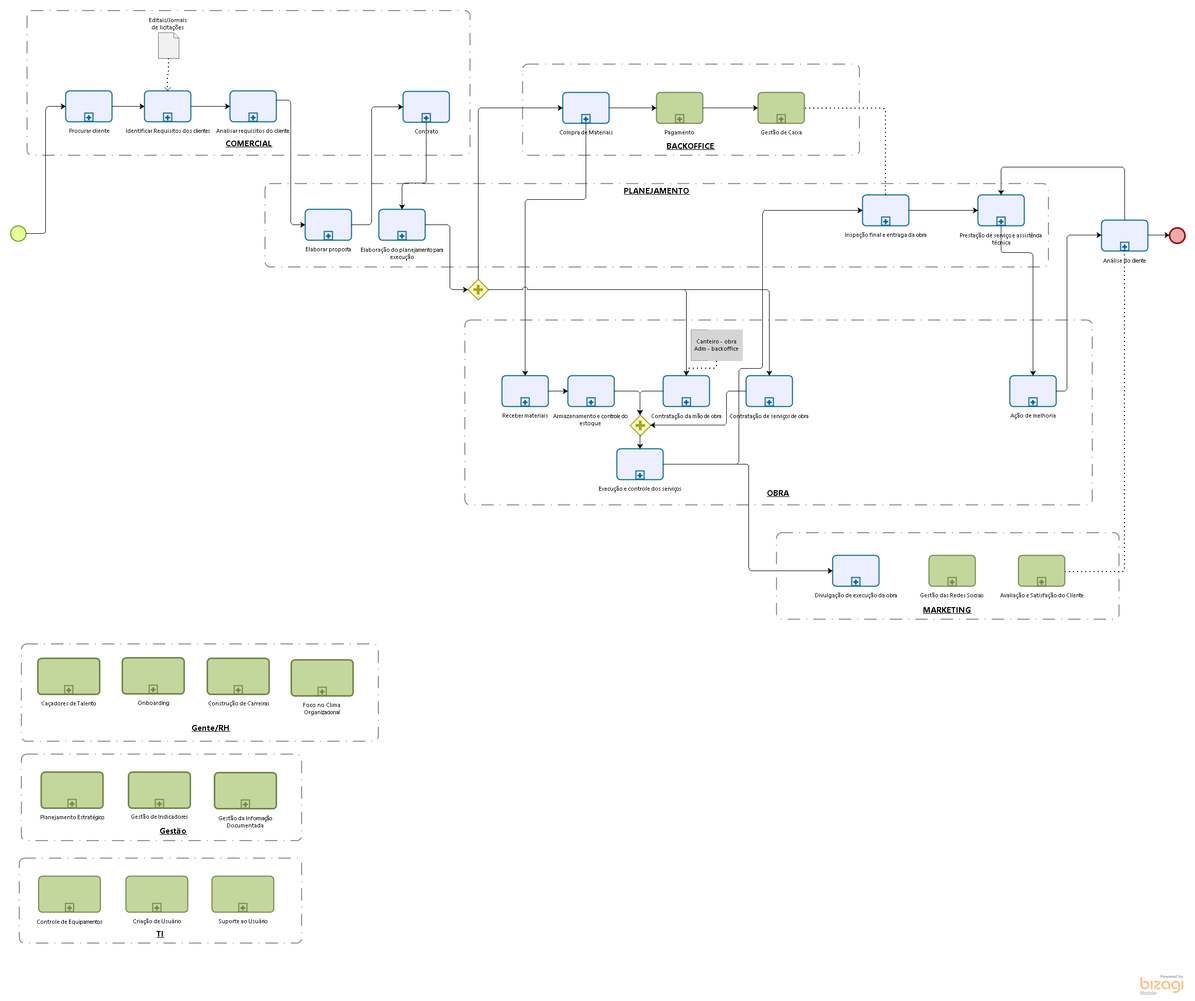
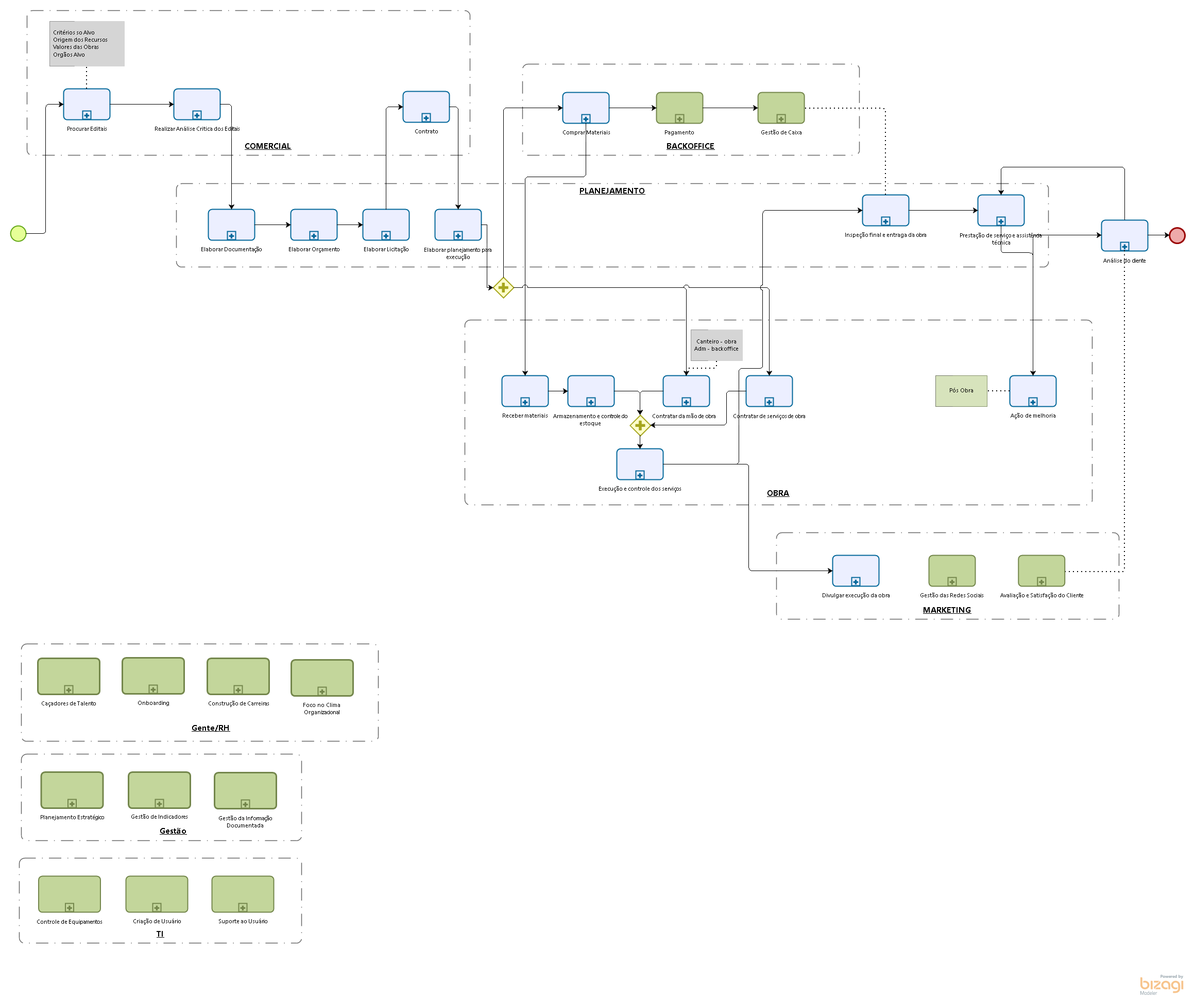
Add files via upload

diff --git a/libs/js/json/configuration.json.js b/libs/js/json/configuration.json.js
@@ -1,1 +1,1 @@
-Bizagi.AppModel = {"personalized":false,"userLogoName":"\\libs\\img\\biz-ex-logo.png","bizagiUrl":"http://www.bizagi.com","productName":"Bizagi Modeler","modelName":"Processos MK","publishDate":"04/06/2022 14:07:30","pages":[{"id":"2aa01766-2483-4bf5-9cc6-494eaa9f4866","name":"MACRO PÚBLICO","mainProcessId":"7aab92c8-d38f-452e-9b14-65f712e7676c","version":"1.0","author":"ricardo.dias","image":"files\\diagrams\\MACRO_PUBLICO.png","isSubprocessPage":false,"elements":[{"id":"7aab92c8-d38f-452e-9b14-65f712e7676c","name":"Processo principal","elementImage":"files\\bpmnElements\\Participant.png","imageBounds":{"points":[{"x":-5.0,"y":-72.0}],"radius":0.0,"height":0.0,"width":50.0,"shape":"rect"},"elementType":"Participant","properties":[],"pageElements":[{"id":"a342f97d-7b3a-42dc-9a87-8933fa2894b0","name":"Suporte ao Usuário","elementImage":"files\\bpmnElements\\SubProcess.png","imageBounds":{"points":[{"x":411.0,"y":1701.0}],"radius":0.0,"height":70.0,"width":120.0,"shape":"rect"},"elementType":"SubProcess","properties":[]},{"id":"3c4227c3-d3e4-4172-a6df-b97349a80ff6","name":"Compra de Materiais","elementImage":"files\\bpmnElements\\SubProcess.png","imageBounds":{"points":[{"x":1092.0,"y":179.0}],"radius":0.0,"height":60.0,"width":90.0,"shape":"rect"},"elementType":"SubProcess","properties":[]},{"id":"daccf854-0043-44e3-80d9-1d173d5acc42","name":"Gestão da Informação Documentada","elementImage":"files\\bpmnElements\\CallActivity.png","imageBounds":{"points":[{"x":416.0,"y":1500.0}],"radius":0.0,"height":70.0,"width":120.0,"shape":"rect"},"elementType":"CallActivity","properties":[]},{"id":"23cfeb0f-7495-4e97-bed5-978573d6212d","name":"Onboarding","elementImage":"files\\bpmnElements\\CallActivity.png","imageBounds":{"points":[{"x":237.0,"y":1277.0}],"radius":0.0,"height":70.0,"width":120.0,"shape":"rect"},"elementType":"CallActivity","properties":[]},{"id":"4e8989d6-17cd-44e8-9a2b-647b4239ecb0","name":"Gestão das Redes Sociais","elementImage":"files\\bpmnElements\\SubProcess.png","imageBounds":{"points":[{"x":1803.0,"y":1078.0}],"radius":0.0,"height":60.0,"width":90.0,"shape":"rect"},"elementType":"SubProcess","properties":[]},{"id":"1a2bcca2-b88b-4447-8ee0-e3896234a9a6","name":"Inspeção final e entraga da obra","elementImage":"files\\bpmnElements\\SubProcess.png","imageBounds":{"points":[{"x":1674.0,"y":378.0}],"radius":0.0,"height":60.0,"width":90.0,"shape":"rect"},"elementType":"SubProcess","properties":[]},{"id":"58e5f193-b6fb-48cf-af19-e793d307d36d","name":"Gestão de Caixa","elementImage":"files\\bpmnElements\\SubProcess.png","imageBounds":{"points":[{"x":1471.11121,"y":179.0}],"radius":0.0,"height":60.0,"width":90.0,"shape":"rect"},"elementType":"SubProcess","properties":[]},{"id":"121e57a7-b3f8-47d7-88da-1bfc58840245","name":"Armazenamento e controle do estoque","elementImage":"files\\bpmnElements\\SubProcess.png","imageBounds":{"points":[{"x":1102.0,"y":729.0}],"radius":0.0,"height":60.0,"width":90.0,"shape":"rect"},"elementType":"SubProcess","properties":[]},{"id":"fd87362f-3ec1-41bd-ad44-008bf3bf98c6","name":"Divulgação de execução da obra","elementImage":"files\\bpmnElements\\SubProcess.png","imageBounds":{"points":[{"x":1616.0,"y":1078.0}],"radius":0.0,"height":60.0,"width":90.0,"shape":"rect"},"elementType":"SubProcess","properties":[]},{"id":"c0527423-c169-4b1d-a0cb-c70158fa7370","name":"Análise do cliente ","elementImage":"files\\bpmnElements\\SubProcess.png","imageBounds":{"points":[{"x":2138.0,"y":426.888916}],"radius":0.0,"height":60.0,"width":90.0,"shape":"rect"},"elementType":"SubProcess","properties":[]},{"id":"53fdd723-2268-4069-b5ff-2af9fe69d67d","name":"Planejamento Estratégico","elementImage":"files\\bpmnElements\\CallActivity.png","imageBounds":{"points":[{"x":79.5,"y":1499.0}],"radius":0.0,"height":70.0,"width":120.0,"shape":"rect"},"elementType":"CallActivity","properties":[]},{"id":"7ae5ea42-0efb-4be6-94c8-d6a5fe77590c","name":"Execução e controle dos serviços","elementImage":"files\\bpmnElements\\SubProcess.png","imageBounds":{"points":[{"x":1197.0,"y":871.0}],"radius":0.0,"height":60.0,"width":90.0,"shape":"rect"},"elementType":"SubProcess","properties":[]},{"id":"b01a6e3a-ce09-41a8-b791-94b8a8d6d5f3","name":"Identificar Requisitos dos clientes","elementImage":"files\\bpmnElements\\SubProcess.png","imageBounds":{"points":[{"x":280.0,"y":176.0}],"radius":0.0,"height":60.0,"width":90.0,"shape":"rect"},"elementType":"SubProcess","properties":[]},{"id":"c8587a21-b724-4849-a612-99698019901c","name":"Construção de Carreiras","elementImage":"files\\bpmnElements\\CallActivity.png","imageBounds":{"points":[{"x":402.0,"y":1278.0}],"radius":0.0,"height":70.0,"width":120.0,"shape":"rect"},"elementType":"CallActivity","properties":[]},{"id":"1b2255b4-cb31-4b5a-998d-3a520acac259","name":"Analisar requisitos do cliente","elementImage":"files\\bpmnElements\\SubProcess.png","imageBounds":{"points":[{"x":446.0,"y":176.0}],"radius":0.0,"height":60.0,"width":90.0,"shape":"rect"},"elementType":"SubProcess","properties":[]},{"id":"0a53ca69-c957-412b-81af-730077834c3f","name":"Prestação de serviço e assistência técnica","elementImage":"files\\bpmnElements\\SubProcess.png","imageBounds":{"points":[{"x":1898.0,"y":378.0}],"radius":0.0,"height":60.0,"width":90.0,"shape":"rect"},"elementType":"SubProcess","properties":[]},{"id":"6ee625ab-8dd6-47c2-90d7-e672abb8f5fb","name":"Caçadores de Talento","elementImage":"files\\bpmnElements\\CallActivity.png","imageBounds":{"points":[{"x":73.0,"y":1278.0}],"radius":0.0,"height":70.0,"width":120.0,"shape":"rect"},"elementType":"CallActivity","properties":[]},{"id":"14da4f3b-7404-401a-b2bc-e7e9534182c3","name":"Controle de Equipamentos ","elementImage":"files\\bpmnElements\\SubProcess.png","imageBounds":{"points":[{"x":74.5,"y":1701.0}],"radius":0.0,"height":70.0,"width":120.0,"shape":"rect"},"elementType":"SubProcess","properties":[]},{"id":"37672f6d-94d7-44c7-af8c-8bcd1172827e","name":"Avaliação e Satisfação do Cliente","elementImage":"files\\bpmnElements\\SubProcess.png","imageBounds":{"points":[{"x":1976.66675,"y":1078.0}],"radius":0.0,"height":60.0,"width":90.0,"shape":"rect"},"elementType":"SubProcess","properties":[]},{"id":"a2160536-4871-40d2-9341-28507206632d","name":"Foco no Clima Organizacional","elementImage":"files\\bpmnElements\\CallActivity.png","imageBounds":{"points":[{"x":565.0,"y":1281.0}],"radius":0.0,"height":70.0,"width":120.0,"shape":"rect"},"elementType":"CallActivity","properties":[]},{"id":"06a9a43f-01b6-4970-a3e1-9eeb587aa98d","name":"Gateway","elementImage":"files\\bpmnElements\\ParallelGateway.png","imageBounds":{"points":[{"x":1222.77783,"y":805.777832}],"radius":0.0,"height":40.0,"width":40.0,"shape":"poly"},"elementType":"ParallelGateway","properties":[],"pageElements":[]},{"id":"cb7c0265-ce66-482e-a1ec-25286693ef7a","name":"Procurar cliente","elementImage":"files\\bpmnElements\\SubProcess.png","imageBounds":{"points":[{"x":127.0,"y":176.0}],"radius":0.0,"height":60.0,"width":90.0,"shape":"rect"},"elementType":"SubProcess","properties":[]},{"id":"1dad1e02-54e0-43ae-8fd5-d2d10bd92238","name":"Event","elementImage":"files\\bpmnElements\\NoneEnd.png","imageBounds":{"points":[{"x":2270.0,"y":441.888916}],"radius":15.0,"height":30.0,"width":30.0,"shape":"circle"},"elementType":"NoneEnd"},{"id":"ca4217a4-1cfb-42ae-bcee-9603e773e407","name":"Elaborar proposta","elementImage":"files\\bpmnElements\\SubProcess.png","imageBounds":{"points":[{"x":592.0,"y":406.0}],"radius":0.0,"height":60.0,"width":90.0,"shape":"rect"},"elementType":"SubProcess","properties":[]},{"id":"88a98e52-edee-4766-a98f-159c81b53b11","name":"Ação de melhoria","elementImage":"files\\bpmnElements\\SubProcess.png","imageBounds":{"points":[{"x":1960.0,"y":729.0}],"radius":0.0,"height":60.0,"width":90.0,"shape":"rect"},"elementType":"SubProcess","properties":[]},{"id":"5f1c2b59-33eb-44a5-b3b4-495d7a2e0898","name":"Contrato","elementImage":"files\\bpmnElements\\SubProcess.png","imageBounds":{"points":[{"x":782.0,"y":177.0}],"radius":0.0,"height":60.0,"width":90.0,"shape":"rect"},"elementType":"SubProcess","properties":[]},{"id":"d31b7023-c800-44d3-8320-5be98eb1ceb3","name":"Contratação da mão de obra ","elementImage":"files\\bpmnElements\\SubProcess.png","imageBounds":{"points":[{"x":1287.0,"y":729.0}],"radius":0.0,"height":60.0,"width":90.0,"shape":"rect"},"elementType":"SubProcess","properties":[]},{"id":"c41f8b78-5fb1-4313-80c6-d4fb2ebcdc4d","name":"Event","elementImage":"files\\bpmnElements\\NoneStart.png","imageBounds":{"points":[{"x":20.0,"y":438.0}],"radius":15.0,"height":30.0,"width":30.0,"shape":"circle"},"elementType":"NoneStart"},{"id":"56f5ab8f-daf4-45fb-8957-6522d06d053a","name":"Gestão de Indicadores","elementImage":"files\\bpmnElements\\CallActivity.png","imageBounds":{"points":[{"x":249.0,"y":1499.0}],"radius":0.0,"height":70.0,"width":120.0,"shape":"rect"},"elementType":"CallActivity","properties":[]},{"id":"6c3370b5-6023-4d77-92af-8bde97bf68e0","name":"Elaboração do planejamento para execução ","elementImage":"files\\bpmnElements\\SubProcess.png","imageBounds":{"points":[{"x":735.0,"y":406.0}],"radius":0.0,"height":60.0,"width":90.0,"shape":"rect"},"elementType":"SubProcess","properties":[]},{"id":"beb435e9-1483-460d-9a16-dc3cbba626df","name":"Criação de Usuário","elementImage":"files\\bpmnElements\\SubProcess.png","imageBounds":{"points":[{"x":244.0,"y":1701.0}],"radius":0.0,"height":70.0,"width":120.0,"shape":"rect"},"elementType":"SubProcess","properties":[]},{"id":"cad4079f-0db8-4119-87f0-387d12c20988","name":"Pagamento","elementImage":"files\\bpmnElements\\SubProcess.png","imageBounds":{"points":[{"x":1274.0,"y":179.0}],"radius":0.0,"height":60.0,"width":90.0,"shape":"rect"},"elementType":"SubProcess","properties":[]},{"id":"f817118d-0534-4514-9943-41489e00f43a","name":"Receber materiais","elementImage":"files\\bpmnElements\\SubProcess.png","imageBounds":{"points":[{"x":974.0,"y":729.0}],"radius":0.0,"height":60.0,"width":90.0,"shape":"rect"},"elementType":"SubProcess","properties":[]},{"id":"a39a5c54-1a81-46f6-a78b-c2be47d586d4","name":"Contratação de serviços de obra ","elementImage":"files\\bpmnElements\\SubProcess.png","imageBounds":{"points":[{"x":1448.0,"y":729.0}],"radius":0.0,"height":60.0,"width":90.0,"shape":"rect"},"elementType":"SubProcess","properties":[]},{"id":"ba5c4e34-5f3f-4697-83d8-7735c58782f2","name":"Gateway","elementImage":"files\\bpmnElements\\ParallelGateway.png","imageBounds":{"points":[{"x":908.0,"y":542.0}],"radius":0.0,"height":40.0,"width":40.0,"shape":"poly"},"elementType":"ParallelGateway","properties":[],"pageElements":[]},{"id":"e4da18d6-eaeb-4d81-88e8-6a47c6bad52f","name":"Editais/Jornais de licitações","elementImage":"files\\bpmnElements\\DataObject.png","imageBounds":{"points":[{"x":307.0,"y":63.0}],"radius":0.0,"height":50.0,"width":40.0,"shape":"rect"},"elementType":"DataObject","properties":[{"id":"DataObjectState","name":"Estado","type":"text"}]}]}]}],"texts":{"tableOfContents":"Índice","pageNumber":"Página","pageNumberLabelOf":"de","version":"Versão","author":"Autor","description":"Descrição","mainPool":"Processo principal","mainPoolDescription":"Processo principal Descrição","processDiagrams":"Processar os Diagramas","processElements":"Elementos do processo","elements":"Elementos do processo","defaultElementName":"Elemento","performers":"Executantes","connectors":"Conectores","connector":"Conector","home":"Principal","search":"Pesquisar","goToParentProcess":"<< Ir para Matriz","visitBizagi":"Visite bizagi.com","contains":"Contém {0} subprocessos","showAll":"Show all","fullScreen":"Tela inteira","zoomIn":"Ampliar","zoomOut":"Reduzir","close":"Fechar","menu":"Menu: ","errorPage":"Erro ao visualizar a página","process":"Proceso","subProcess":"Subprocessos publicados","contain":"Contém","checkAttributes":"Ver atributos","checkOverview":"Ver resumo","unavailableResource":"O recurso não está disponível","localResource":"O recurso pode ser acessado localmente","performer":"Executor","linktoimage":"Link para a  imagem","presentationAction":"Ações de apresentação","searchGlobal":"Busca todos","searchLocal":"Busca neste processo","searchResults":"Nenhum resultado encontrado","titlePage":"Start","emptyElement":"Este elemento ainda não foi documentado","unsupported":"Seu navegador não suporta conteúdo exibido por esta página. <br> Recomendamos que você atualizar o seu navegador.","details":"Detalhes","expand":"Expandir","mainPoolProperties":"Propriedades do Processo principal","cannotVisualize":"The page cannot be displayed","resourceNotFound":"The requested resource was not found:","applyTheme":"Applying new theme"},"searchMap":[{"containerId":"2aa01766-2483-4bf5-9cc6-494eaa9f4866","containerName":"MACRO PÚBLICO","isSubprocess":false,"elements":[{"id":"a342f97d-7b3a-42dc-9a87-8933fa2894b0","value":"Suporte ao Usuário"},{"id":"3c4227c3-d3e4-4172-a6df-b97349a80ff6","value":"Compra de Materiais"},{"id":"daccf854-0043-44e3-80d9-1d173d5acc42","value":"Gestão da Informação Documentada"},{"id":"23cfeb0f-7495-4e97-bed5-978573d6212d","value":"Onboarding"},{"id":"4e8989d6-17cd-44e8-9a2b-647b4239ecb0","value":"Gestão das Redes Sociais"},{"id":"1a2bcca2-b88b-4447-8ee0-e3896234a9a6","value":"Inspeção final e entraga da obra"},{"id":"58e5f193-b6fb-48cf-af19-e793d307d36d","value":"Gestão de Caixa"},{"id":"121e57a7-b3f8-47d7-88da-1bfc58840245","value":"Armazenamento e controle do estoque"},{"id":"fd87362f-3ec1-41bd-ad44-008bf3bf98c6","value":"Divulgação de execução da obra"},{"id":"c0527423-c169-4b1d-a0cb-c70158fa7370","value":"Análise do cliente "},{"id":"53fdd723-2268-4069-b5ff-2af9fe69d67d","value":"Planejamento Estratégico"},{"id":"7ae5ea42-0efb-4be6-94c8-d6a5fe77590c","value":"Execução e controle dos serviços"},{"id":"b01a6e3a-ce09-41a8-b791-94b8a8d6d5f3","value":"Identificar Requisitos dos clientes"},{"id":"c8587a21-b724-4849-a612-99698019901c","value":"Construção de Carreiras"},{"id":"1b2255b4-cb31-4b5a-998d-3a520acac259","value":"Analisar requisitos do cliente"},{"id":"0a53ca69-c957-412b-81af-730077834c3f","value":"Prestação de serviço e assistência técnica"},{"id":"6ee625ab-8dd6-47c2-90d7-e672abb8f5fb","value":"Caçadores de Talento"},{"id":"14da4f3b-7404-401a-b2bc-e7e9534182c3","value":"Controle de Equipamentos "},{"id":"37672f6d-94d7-44c7-af8c-8bcd1172827e","value":"Avaliação e Satisfação do Cliente"},{"id":"a2160536-4871-40d2-9341-28507206632d","value":"Foco no Clima Organizacional"},{"id":"06a9a43f-01b6-4970-a3e1-9eeb587aa98d","value":""},{"id":"cb7c0265-ce66-482e-a1ec-25286693ef7a","value":"Procurar cliente"},{"id":"1dad1e02-54e0-43ae-8fd5-d2d10bd92238","value":""},{"id":"ca4217a4-1cfb-42ae-bcee-9603e773e407","value":"Elaborar proposta"},{"id":"88a98e52-edee-4766-a98f-159c81b53b11","value":"Ação de melhoria"},{"id":"5f1c2b59-33eb-44a5-b3b4-495d7a2e0898","value":"Contrato"},{"id":"d31b7023-c800-44d3-8320-5be98eb1ceb3","value":"Contratação da mão de obra "},{"id":"c41f8b78-5fb1-4313-80c6-d4fb2ebcdc4d","value":""},{"id":"56f5ab8f-daf4-45fb-8957-6522d06d053a","value":"Gestão de Indicadores"},{"id":"6c3370b5-6023-4d77-92af-8bde97bf68e0","value":"Elaboração do planejamento para execução "},{"id":"beb435e9-1483-460d-9a16-dc3cbba626df","value":"Criação de Usuário"},{"id":"cad4079f-0db8-4119-87f0-387d12c20988","value":"Pagamento"},{"id":"f817118d-0534-4514-9943-41489e00f43a","value":"Receber materiais"},{"id":"a39a5c54-1a81-46f6-a78b-c2be47d586d4","value":"Contratação de serviços de obra "},{"id":"ba5c4e34-5f3f-4697-83d8-7735c58782f2","value":""},{"id":"e4da18d6-eaeb-4d81-88e8-6a47c6bad52f","value":"Editais/Jornais de licitações"},{"id":"29c6b9ff-be74-449d-abf2-a97f9c04abed"},{"id":"bbe19fb5-e15c-4c56-aa4b-13320385f94e"},{"id":"c7be7cd0-d276-40dc-aac5-15e922d9c383"},{"id":"c1f2a4ed-14df-4954-bcfb-94bdda240b9c"},{"id":"1e3af276-f667-41fa-a036-f86cae139d44"}]},{"containerId":"a342f97d-7b3a-42dc-9a87-8933fa2894b0","containerName":"Suporte ao Usuário","isSubprocess":true,"elements":[]},{"containerId":"3c4227c3-d3e4-4172-a6df-b97349a80ff6","containerName":"Compra de Materiais","isSubprocess":true,"elements":[]},{"containerId":"4e8989d6-17cd-44e8-9a2b-647b4239ecb0","containerName":"Gestão das Redes Sociais","isSubprocess":true,"elements":[]},{"containerId":"1a2bcca2-b88b-4447-8ee0-e3896234a9a6","containerName":"Inspeção final e entraga da obra","isSubprocess":true,"elements":[]},{"containerId":"58e5f193-b6fb-48cf-af19-e793d307d36d","containerName":"Gestão de Caixa","isSubprocess":true,"elements":[]},{"containerId":"121e57a7-b3f8-47d7-88da-1bfc58840245","containerName":"Armazenamento e controle do estoque","isSubprocess":true,"elements":[]},{"containerId":"fd87362f-3ec1-41bd-ad44-008bf3bf98c6","containerName":"Divulgação de execução da obra","isSubprocess":true,"elements":[]},{"containerId":"c0527423-c169-4b1d-a0cb-c70158fa7370","containerName":"Análise do cliente ","isSubprocess":true,"elements":[]},{"containerId":"7ae5ea42-0efb-4be6-94c8-d6a5fe77590c","containerName":"Execução e controle dos serviços","isSubprocess":true,"elements":[]},{"containerId":"b01a6e3a-ce09-41a8-b791-94b8a8d6d5f3","containerName":"Identificar Requisitos dos clientes","isSubprocess":true,"elements":[]},{"containerId":"1b2255b4-cb31-4b5a-998d-3a520acac259","containerName":"Analisar requisitos do cliente","isSubprocess":true,"elements":[]},{"containerId":"0a53ca69-c957-412b-81af-730077834c3f","containerName":"Prestação de serviço e assistência técnica","isSubprocess":true,"elements":[]},{"containerId":"14da4f3b-7404-401a-b2bc-e7e9534182c3","containerName":"Controle de Equipamentos ","isSubprocess":true,"elements":[]},{"containerId":"37672f6d-94d7-44c7-af8c-8bcd1172827e","containerName":"Avaliação e Satisfação do Cliente","isSubprocess":true,"elements":[]},{"containerId":"cb7c0265-ce66-482e-a1ec-25286693ef7a","containerName":"Procurar cliente","isSubprocess":true,"elements":[]},{"containerId":"ca4217a4-1cfb-42ae-bcee-9603e773e407","containerName":"Elaborar proposta","isSubprocess":true,"elements":[]},{"containerId":"88a98e52-edee-4766-a98f-159c81b53b11","containerName":"Ação de melhoria","isSubprocess":true,"elements":[]},{"containerId":"5f1c2b59-33eb-44a5-b3b4-495d7a2e0898","containerName":"Contrato","isSubprocess":true,"elements":[]},{"containerId":"d31b7023-c800-44d3-8320-5be98eb1ceb3","containerName":"Contratação da mão de obra ","isSubprocess":true,"elements":[]},{"containerId":"6c3370b5-6023-4d77-92af-8bde97bf68e0","containerName":"Elaboração do planejamento para execução ","isSubprocess":true,"elements":[]},{"containerId":"beb435e9-1483-460d-9a16-dc3cbba626df","containerName":"Criação de Usuário","isSubprocess":true,"elements":[]},{"containerId":"cad4079f-0db8-4119-87f0-387d12c20988","containerName":"Pagamento","isSubprocess":true,"elements":[]},{"containerId":"f817118d-0534-4514-9943-41489e00f43a","containerName":"Receber materiais","isSubprocess":true,"elements":[]},{"containerId":"a39a5c54-1a81-46f6-a78b-c2be47d586d4","containerName":"Contratação de serviços de obra ","isSubprocess":true,"elements":[]}]}
+Bizagi.AppModel = {"personalized":false,"userLogoName":"\\libs\\img\\biz-ex-logo.png","bizagiUrl":"http://www.bizagi.com","productName":"Bizagi Modeler","modelName":"Processos MK e R1","publishDate":"08/06/2022 14:01:08","pages":[{"id":"2aa01766-2483-4bf5-9cc6-494eaa9f4866","name":"MACRO PÚBLICO","mainProcessId":"7aab92c8-d38f-452e-9b14-65f712e7676c","version":"1.0","author":"ricardo.dias","image":"files\\diagrams\\MACRO_PUBLICO.png","isSubprocessPage":false,"elements":[{"id":"7aab92c8-d38f-452e-9b14-65f712e7676c","name":"Processo principal","elementImage":"files\\bpmnElements\\Participant.png","imageBounds":{"points":[{"x":-5.0,"y":-72.0}],"radius":0.0,"height":350.0,"width":50.0,"shape":"rect"},"elementType":"Participant","properties":[],"pageElements":[{"id":"a342f97d-7b3a-42dc-9a87-8933fa2894b0","name":"Suporte ao Usuário","elementImage":"files\\bpmnElements\\SubProcess.png","imageBounds":{"points":[{"x":411.0,"y":1701.0}],"radius":0.0,"height":70.0,"width":120.0,"shape":"rect"},"elementType":"SubProcess","properties":[]},{"id":"3c4227c3-d3e4-4172-a6df-b97349a80ff6","name":"Comprar Materiais","elementImage":"files\\bpmnElements\\SubProcess.png","imageBounds":{"points":[{"x":1092.0,"y":179.0}],"radius":0.0,"height":60.0,"width":90.0,"shape":"rect"},"elementType":"SubProcess","properties":[]},{"id":"daccf854-0043-44e3-80d9-1d173d5acc42","name":"Gestão da Informação Documentada","elementImage":"files\\bpmnElements\\CallActivity.png","imageBounds":{"points":[{"x":416.0,"y":1500.0}],"radius":0.0,"height":70.0,"width":120.0,"shape":"rect"},"elementType":"CallActivity","properties":[]},{"id":"23cfeb0f-7495-4e97-bed5-978573d6212d","name":"Onboarding","elementImage":"files\\bpmnElements\\CallActivity.png","imageBounds":{"points":[{"x":237.0,"y":1277.0}],"radius":0.0,"height":70.0,"width":120.0,"shape":"rect"},"elementType":"CallActivity","properties":[]},{"id":"4e8989d6-17cd-44e8-9a2b-647b4239ecb0","name":"Gestão das Redes Sociais","elementImage":"files\\bpmnElements\\SubProcess.png","imageBounds":{"points":[{"x":1803.0,"y":1078.0}],"radius":0.0,"height":60.0,"width":90.0,"shape":"rect"},"elementType":"SubProcess","properties":[]},{"id":"1a2bcca2-b88b-4447-8ee0-e3896234a9a6","name":"Inspeção final e entraga da obra","elementImage":"files\\bpmnElements\\SubProcess.png","imageBounds":{"points":[{"x":1674.0,"y":378.0}],"radius":0.0,"height":60.0,"width":90.0,"shape":"rect"},"elementType":"SubProcess","properties":[]},{"id":"58e5f193-b6fb-48cf-af19-e793d307d36d","name":"Gestão de Caixa","elementImage":"files\\bpmnElements\\SubProcess.png","imageBounds":{"points":[{"x":1471.11121,"y":179.0}],"radius":0.0,"height":60.0,"width":90.0,"shape":"rect"},"elementType":"SubProcess","properties":[]},{"id":"121e57a7-b3f8-47d7-88da-1bfc58840245","name":"Armazenamento e controle do estoque","elementImage":"files\\bpmnElements\\SubProcess.png","imageBounds":{"points":[{"x":1102.0,"y":729.0}],"radius":0.0,"height":60.0,"width":90.0,"shape":"rect"},"elementType":"SubProcess","properties":[]},{"id":"fd87362f-3ec1-41bd-ad44-008bf3bf98c6","name":"Divulgar execução da obra","elementImage":"files\\bpmnElements\\SubProcess.png","imageBounds":{"points":[{"x":1616.0,"y":1078.0}],"radius":0.0,"height":60.0,"width":90.0,"shape":"rect"},"elementType":"SubProcess","properties":[]},{"id":"c0527423-c169-4b1d-a0cb-c70158fa7370","name":"Análise do cliente ","elementImage":"files\\bpmnElements\\SubProcess.png","imageBounds":{"points":[{"x":2138.0,"y":426.888916}],"radius":0.0,"height":60.0,"width":90.0,"shape":"rect"},"elementType":"SubProcess","properties":[]},{"id":"53fdd723-2268-4069-b5ff-2af9fe69d67d","name":"Planejamento Estratégico","elementImage":"files\\bpmnElements\\CallActivity.png","imageBounds":{"points":[{"x":79.5,"y":1499.0}],"radius":0.0,"height":70.0,"width":120.0,"shape":"rect"},"elementType":"CallActivity","properties":[]},{"id":"7ae5ea42-0efb-4be6-94c8-d6a5fe77590c","name":"Execução e controle dos serviços","elementImage":"files\\bpmnElements\\SubProcess.png","imageBounds":{"points":[{"x":1197.0,"y":871.0}],"radius":0.0,"height":60.0,"width":90.0,"shape":"rect"},"elementType":"SubProcess","properties":[]},{"id":"c8587a21-b724-4849-a612-99698019901c","name":"Construção de Carreiras","elementImage":"files\\bpmnElements\\CallActivity.png","imageBounds":{"points":[{"x":402.0,"y":1278.0}],"radius":0.0,"height":70.0,"width":120.0,"shape":"rect"},"elementType":"CallActivity","properties":[]},{"id":"0a53ca69-c957-412b-81af-730077834c3f","name":"Prestação de serviço e assistência técnica","elementImage":"files\\bpmnElements\\SubProcess.png","imageBounds":{"points":[{"x":1898.0,"y":378.0}],"radius":0.0,"height":60.0,"width":90.0,"shape":"rect"},"elementType":"SubProcess","properties":[]},{"id":"6ee625ab-8dd6-47c2-90d7-e672abb8f5fb","name":"Caçadores de Talento","elementImage":"files\\bpmnElements\\CallActivity.png","imageBounds":{"points":[{"x":73.0,"y":1278.0}],"radius":0.0,"height":70.0,"width":120.0,"shape":"rect"},"elementType":"CallActivity","properties":[]},{"id":"14da4f3b-7404-401a-b2bc-e7e9534182c3","name":"Controle de Equipamentos ","elementImage":"files\\bpmnElements\\SubProcess.png","imageBounds":{"points":[{"x":74.5,"y":1701.0}],"radius":0.0,"height":70.0,"width":120.0,"shape":"rect"},"elementType":"SubProcess","properties":[]},{"id":"37672f6d-94d7-44c7-af8c-8bcd1172827e","name":"Avaliação e Satisfação do Cliente","elementImage":"files\\bpmnElements\\SubProcess.png","imageBounds":{"points":[{"x":1976.66675,"y":1078.0}],"radius":0.0,"height":60.0,"width":90.0,"shape":"rect"},"elementType":"SubProcess","properties":[]},{"id":"a2160536-4871-40d2-9341-28507206632d","name":"Foco no Clima Organizacional","elementImage":"files\\bpmnElements\\CallActivity.png","imageBounds":{"points":[{"x":565.0,"y":1281.0}],"radius":0.0,"height":70.0,"width":120.0,"shape":"rect"},"elementType":"CallActivity","properties":[]},{"id":"06a9a43f-01b6-4970-a3e1-9eeb587aa98d","name":"Gateway","elementImage":"files\\bpmnElements\\ParallelGateway.png","imageBounds":{"points":[{"x":1222.77783,"y":805.777832}],"radius":0.0,"height":40.0,"width":40.0,"shape":"poly"},"elementType":"ParallelGateway","properties":[],"pageElements":[]},{"id":"cb7c0265-ce66-482e-a1ec-25286693ef7a","name":"Procurar Editais","elementImage":"files\\bpmnElements\\SubProcess.png","imageBounds":{"points":[{"x":123.0,"y":172.0}],"radius":0.0,"height":60.0,"width":90.0,"shape":"rect"},"elementType":"SubProcess","properties":[]},{"id":"1dad1e02-54e0-43ae-8fd5-d2d10bd92238","name":"Event","elementImage":"files\\bpmnElements\\NoneEnd.png","imageBounds":{"points":[{"x":2270.0,"y":441.888916}],"radius":15.0,"height":30.0,"width":30.0,"shape":"circle"},"elementType":"NoneEnd"},{"id":"ca4217a4-1cfb-42ae-bcee-9603e773e407","name":"Elaborar Documentação","elementImage":"files\\bpmnElements\\SubProcess.png","imageBounds":{"points":[{"x":404.0,"y":406.0}],"radius":0.0,"height":60.0,"width":90.0,"shape":"rect"},"elementType":"SubProcess","properties":[]},{"id":"88a98e52-edee-4766-a98f-159c81b53b11","name":"Ação de melhoria","elementImage":"files\\bpmnElements\\SubProcess.png","imageBounds":{"points":[{"x":1960.0,"y":729.0}],"radius":0.0,"height":60.0,"width":90.0,"shape":"rect"},"elementType":"SubProcess","properties":[]},{"id":"5f1c2b59-33eb-44a5-b3b4-495d7a2e0898","name":"Contrato","elementImage":"files\\bpmnElements\\SubProcess.png","imageBounds":{"points":[{"x":782.0,"y":177.0}],"radius":0.0,"height":60.0,"width":90.0,"shape":"rect"},"elementType":"SubProcess","properties":[]},{"id":"d31b7023-c800-44d3-8320-5be98eb1ceb3","name":"Contratar da mão de obra ","elementImage":"files\\bpmnElements\\SubProcess.png","imageBounds":{"points":[{"x":1287.0,"y":729.0}],"radius":0.0,"height":60.0,"width":90.0,"shape":"rect"},"elementType":"SubProcess","properties":[]},{"id":"c41f8b78-5fb1-4313-80c6-d4fb2ebcdc4d","name":"Event","elementImage":"files\\bpmnElements\\NoneStart.png","imageBounds":{"points":[{"x":20.0,"y":438.0}],"radius":15.0,"height":30.0,"width":30.0,"shape":"circle"},"elementType":"NoneStart"},{"id":"56f5ab8f-daf4-45fb-8957-6522d06d053a","name":"Gestão de Indicadores","elementImage":"files\\bpmnElements\\CallActivity.png","imageBounds":{"points":[{"x":249.0,"y":1499.0}],"radius":0.0,"height":70.0,"width":120.0,"shape":"rect"},"elementType":"CallActivity","properties":[]},{"id":"6c3370b5-6023-4d77-92af-8bde97bf68e0","name":"Elaborar planejamento para execução ","elementImage":"files\\bpmnElements\\SubProcess.png","imageBounds":{"points":[{"x":844.0,"y":406.0}],"radius":0.0,"height":60.0,"width":90.0,"shape":"rect"},"elementType":"SubProcess","properties":[]},{"id":"beb435e9-1483-460d-9a16-dc3cbba626df","name":"Criação de Usuário","elementImage":"files\\bpmnElements\\SubProcess.png","imageBounds":{"points":[{"x":244.0,"y":1701.0}],"radius":0.0,"height":70.0,"width":120.0,"shape":"rect"},"elementType":"SubProcess","properties":[]},{"id":"cad4079f-0db8-4119-87f0-387d12c20988","name":"Pagamento","elementImage":"files\\bpmnElements\\SubProcess.png","imageBounds":{"points":[{"x":1274.0,"y":179.0}],"radius":0.0,"height":60.0,"width":90.0,"shape":"rect"},"elementType":"SubProcess","properties":[]},{"id":"f817118d-0534-4514-9943-41489e00f43a","name":"Receber materiais","elementImage":"files\\bpmnElements\\SubProcess.png","imageBounds":{"points":[{"x":974.0,"y":729.0}],"radius":0.0,"height":60.0,"width":90.0,"shape":"rect"},"elementType":"SubProcess","properties":[]},{"id":"a39a5c54-1a81-46f6-a78b-c2be47d586d4","name":"Contratar de serviços de obra ","elementImage":"files\\bpmnElements\\SubProcess.png","imageBounds":{"points":[{"x":1448.0,"y":729.0}],"radius":0.0,"height":60.0,"width":90.0,"shape":"rect"},"elementType":"SubProcess","properties":[]},{"id":"ba5c4e34-5f3f-4697-83d8-7735c58782f2","name":"Gateway","elementImage":"files\\bpmnElements\\ParallelGateway.png","imageBounds":{"points":[{"x":957.0,"y":538.0}],"radius":0.0,"height":40.0,"width":40.0,"shape":"poly"},"elementType":"ParallelGateway","properties":[],"pageElements":[]},{"id":"ad3d0d49-937b-4017-b0bf-2d861de71572","name":"Realizar Análise Critica dos Editais","elementImage":"files\\bpmnElements\\SubProcess.png","imageBounds":{"points":[{"x":337.0,"y":172.0}],"radius":0.0,"height":60.0,"width":90.0,"shape":"rect"},"elementType":"SubProcess","properties":[]},{"id":"eda5c38b-40dd-4061-9967-30ab0a42be69","name":"Elaborar Orçamento","elementImage":"files\\bpmnElements\\SubProcess.png","imageBounds":{"points":[{"x":564.0,"y":406.0}],"radius":0.0,"height":60.0,"width":90.0,"shape":"rect"},"elementType":"SubProcess","properties":[]},{"id":"b0c677ae-8052-48cb-8a49-23ccc9275547","name":"Elaborar Licitação","elementImage":"files\\bpmnElements\\SubProcess.png","imageBounds":{"points":[{"x":704.0,"y":406.0}],"radius":0.0,"height":60.0,"width":90.0,"shape":"rect"},"elementType":"SubProcess","properties":[]}]}]}],"texts":{"tableOfContents":"Índice","pageNumber":"Página","pageNumberLabelOf":"de","version":"Versão","author":"Autor","description":"Descrição","mainPool":"Processo principal","mainPoolDescription":"Processo principal Descrição","processDiagrams":"Processar os Diagramas","processElements":"Elementos do processo","elements":"Elementos do processo","defaultElementName":"Elemento","performers":"Executantes","connectors":"Conectores","connector":"Conector","home":"Principal","search":"Pesquisar","goToParentProcess":"<< Ir para Matriz","visitBizagi":"Visite bizagi.com","contains":"Contém {0} subprocessos","showAll":"Show all","fullScreen":"Tela inteira","zoomIn":"Ampliar","zoomOut":"Reduzir","close":"Fechar","menu":"Menu: ","errorPage":"Erro ao visualizar a página","process":"Proceso","subProcess":"Subprocessos publicados","contain":"Contém","checkAttributes":"Ver atributos","checkOverview":"Ver resumo","unavailableResource":"O recurso não está disponível","localResource":"O recurso pode ser acessado localmente","performer":"Executor","linktoimage":"Link para a  imagem","presentationAction":"Ações de apresentação","searchGlobal":"Busca todos","searchLocal":"Busca neste processo","searchResults":"Nenhum resultado encontrado","titlePage":"Start","emptyElement":"Este elemento ainda não foi documentado","unsupported":"Seu navegador não suporta conteúdo exibido por esta página. <br> Recomendamos que você atualizar o seu navegador.","details":"Detalhes","expand":"Expandir","mainPoolProperties":"Propriedades do Processo principal","cannotVisualize":"The page cannot be displayed","resourceNotFound":"The requested resource was not found:","applyTheme":"Applying new theme"},"searchMap":[{"containerId":"2aa01766-2483-4bf5-9cc6-494eaa9f4866","containerName":"MACRO PÚBLICO","isSubprocess":false,"elements":[{"id":"a342f97d-7b3a-42dc-9a87-8933fa2894b0","value":"Suporte ao Usuário"},{"id":"3c4227c3-d3e4-4172-a6df-b97349a80ff6","value":"Comprar Materiais"},{"id":"daccf854-0043-44e3-80d9-1d173d5acc42","value":"Gestão da Informação Documentada"},{"id":"23cfeb0f-7495-4e97-bed5-978573d6212d","value":"Onboarding"},{"id":"4e8989d6-17cd-44e8-9a2b-647b4239ecb0","value":"Gestão das Redes Sociais"},{"id":"1a2bcca2-b88b-4447-8ee0-e3896234a9a6","value":"Inspeção final e entraga da obra"},{"id":"58e5f193-b6fb-48cf-af19-e793d307d36d","value":"Gestão de Caixa"},{"id":"121e57a7-b3f8-47d7-88da-1bfc58840245","value":"Armazenamento e controle do estoque"},{"id":"fd87362f-3ec1-41bd-ad44-008bf3bf98c6","value":"Divulgar execução da obra"},{"id":"c0527423-c169-4b1d-a0cb-c70158fa7370","value":"Análise do cliente "},{"id":"53fdd723-2268-4069-b5ff-2af9fe69d67d","value":"Planejamento Estratégico"},{"id":"7ae5ea42-0efb-4be6-94c8-d6a5fe77590c","value":"Execução e controle dos serviços"},{"id":"c8587a21-b724-4849-a612-99698019901c","value":"Construção de Carreiras"},{"id":"0a53ca69-c957-412b-81af-730077834c3f","value":"Prestação de serviço e assistência técnica"},{"id":"6ee625ab-8dd6-47c2-90d7-e672abb8f5fb","value":"Caçadores de Talento"},{"id":"14da4f3b-7404-401a-b2bc-e7e9534182c3","value":"Controle de Equipamentos "},{"id":"37672f6d-94d7-44c7-af8c-8bcd1172827e","value":"Avaliação e Satisfação do Cliente"},{"id":"a2160536-4871-40d2-9341-28507206632d","value":"Foco no Clima Organizacional"},{"id":"06a9a43f-01b6-4970-a3e1-9eeb587aa98d","value":""},{"id":"cb7c0265-ce66-482e-a1ec-25286693ef7a","value":"Procurar Editais"},{"id":"1dad1e02-54e0-43ae-8fd5-d2d10bd92238","value":""},{"id":"ca4217a4-1cfb-42ae-bcee-9603e773e407","value":"Elaborar Documentação"},{"id":"88a98e52-edee-4766-a98f-159c81b53b11","value":"Ação de melhoria"},{"id":"5f1c2b59-33eb-44a5-b3b4-495d7a2e0898","value":"Contrato"},{"id":"d31b7023-c800-44d3-8320-5be98eb1ceb3","value":"Contratar da mão de obra "},{"id":"c41f8b78-5fb1-4313-80c6-d4fb2ebcdc4d","value":""},{"id":"56f5ab8f-daf4-45fb-8957-6522d06d053a","value":"Gestão de Indicadores"},{"id":"6c3370b5-6023-4d77-92af-8bde97bf68e0","value":"Elaborar planejamento para execução "},{"id":"beb435e9-1483-460d-9a16-dc3cbba626df","value":"Criação de Usuário"},{"id":"cad4079f-0db8-4119-87f0-387d12c20988","value":"Pagamento"},{"id":"f817118d-0534-4514-9943-41489e00f43a","value":"Receber materiais"},{"id":"a39a5c54-1a81-46f6-a78b-c2be47d586d4","value":"Contratar de serviços de obra "},{"id":"ba5c4e34-5f3f-4697-83d8-7735c58782f2","value":""},{"id":"ad3d0d49-937b-4017-b0bf-2d861de71572","value":"Realizar Análise Critica dos Editais"},{"id":"eda5c38b-40dd-4061-9967-30ab0a42be69","value":"Elaborar Orçamento"},{"id":"b0c677ae-8052-48cb-8a49-23ccc9275547","value":"Elaborar Licitação"},{"id":"29c6b9ff-be74-449d-abf2-a97f9c04abed"},{"id":"9c7b1736-88fa-4830-a374-365015d239f9"},{"id":"d26a53c0-341e-40c5-8e65-26fdd8375789"},{"id":"bbe19fb5-e15c-4c56-aa4b-13320385f94e"},{"id":"c1f2a4ed-14df-4954-bcfb-94bdda240b9c"},{"id":"1e3af276-f667-41fa-a036-f86cae139d44"},{"id":"91dcfb43-a833-4020-ac53-1de042a6e44f"},{"id":"c4bc1246-a089-4f23-a705-ff43216eaba4"}]},{"containerId":"a342f97d-7b3a-42dc-9a87-8933fa2894b0","containerName":"Suporte ao Usuário","isSubprocess":true,"elements":[]},{"containerId":"3c4227c3-d3e4-4172-a6df-b97349a80ff6","containerName":"Comprar Materiais","isSubprocess":true,"elements":[]},{"containerId":"4e8989d6-17cd-44e8-9a2b-647b4239ecb0","containerName":"Gestão das Redes Sociais","isSubprocess":true,"elements":[]},{"containerId":"1a2bcca2-b88b-4447-8ee0-e3896234a9a6","containerName":"Inspeção final e entraga da obra","isSubprocess":true,"elements":[]},{"containerId":"58e5f193-b6fb-48cf-af19-e793d307d36d","containerName":"Gestão de Caixa","isSubprocess":true,"elements":[]},{"containerId":"121e57a7-b3f8-47d7-88da-1bfc58840245","containerName":"Armazenamento e controle do estoque","isSubprocess":true,"elements":[]},{"containerId":"fd87362f-3ec1-41bd-ad44-008bf3bf98c6","containerName":"Divulgar execução da obra","isSubprocess":true,"elements":[]},{"containerId":"c0527423-c169-4b1d-a0cb-c70158fa7370","containerName":"Análise do cliente ","isSubprocess":true,"elements":[]},{"containerId":"7ae5ea42-0efb-4be6-94c8-d6a5fe77590c","containerName":"Execução e controle dos serviços","isSubprocess":true,"elements":[]},{"containerId":"0a53ca69-c957-412b-81af-730077834c3f","containerName":"Prestação de serviço e assistência técnica","isSubprocess":true,"elements":[]},{"containerId":"14da4f3b-7404-401a-b2bc-e7e9534182c3","containerName":"Controle de Equipamentos ","isSubprocess":true,"elements":[]},{"containerId":"37672f6d-94d7-44c7-af8c-8bcd1172827e","containerName":"Avaliação e Satisfação do Cliente","isSubprocess":true,"elements":[]},{"containerId":"cb7c0265-ce66-482e-a1ec-25286693ef7a","containerName":"Procurar Editais","isSubprocess":true,"elements":[]},{"containerId":"ca4217a4-1cfb-42ae-bcee-9603e773e407","containerName":"Elaborar Documentação","isSubprocess":true,"elements":[]},{"containerId":"88a98e52-edee-4766-a98f-159c81b53b11","containerName":"Ação de melhoria","isSubprocess":true,"elements":[]},{"containerId":"5f1c2b59-33eb-44a5-b3b4-495d7a2e0898","containerName":"Contrato","isSubprocess":true,"elements":[]},{"containerId":"d31b7023-c800-44d3-8320-5be98eb1ceb3","containerName":"Contratar da mão de obra ","isSubprocess":true,"elements":[]},{"containerId":"6c3370b5-6023-4d77-92af-8bde97bf68e0","containerName":"Elaborar planejamento para execução ","isSubprocess":true,"elements":[]},{"containerId":"beb435e9-1483-460d-9a16-dc3cbba626df","containerName":"Criação de Usuário","isSubprocess":true,"elements":[]},{"containerId":"cad4079f-0db8-4119-87f0-387d12c20988","containerName":"Pagamento","isSubprocess":true,"elements":[]},{"containerId":"f817118d-0534-4514-9943-41489e00f43a","containerName":"Receber materiais","isSubprocess":true,"elements":[]},{"containerId":"a39a5c54-1a81-46f6-a78b-c2be47d586d4","containerName":"Contratar de serviços de obra ","isSubprocess":true,"elements":[]},{"containerId":"ad3d0d49-937b-4017-b0bf-2d861de71572","containerName":"Realizar Análise Critica dos Editais","isSubprocess":true,"elements":[]},{"containerId":"eda5c38b-40dd-4061-9967-30ab0a42be69","containerName":"Elaborar Orçamento","isSubprocess":true,"elements":[]},{"containerId":"b0c677ae-8052-48cb-8a49-23ccc9275547","containerName":"Elaborar Licitação","isSubprocess":true,"elements":[]}]}
